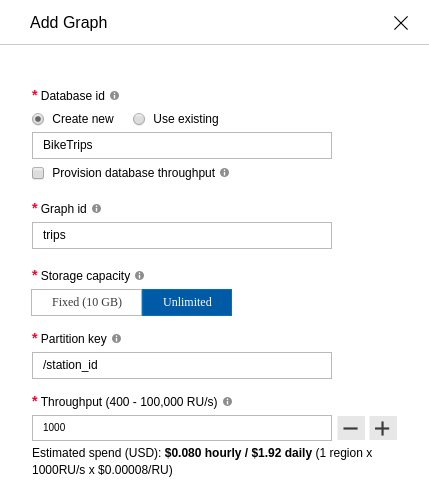
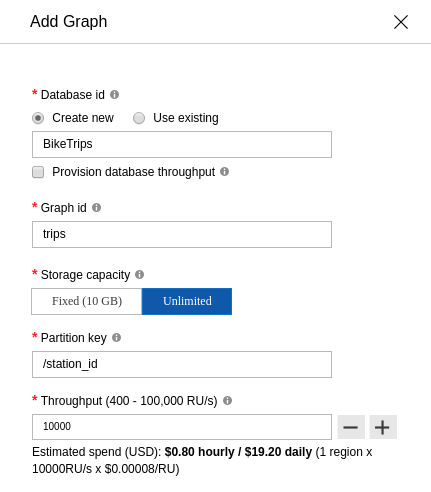
Updated notebook and architecture diagram

diff --git a/azure/cosmosdb/graph/README.md b/azure/cosmosdb/graph/README.md
@@ -2,7 +2,7 @@
 
 This guide will help you spin up an environment to test graph processing capabilities of Azure Databricks (a fast, easy, and collaborative Apache Spark–based analytics service) and Azure Cosmos DB.
 
-Azure Cosmos DB is the globally distributed, multimodel database service from Microsoft for mission-critical applications. It is a multimodel database and supports document, key-value, graph, and columnar data models. The Azure Cosmos DB Gremlin API is used to store and operate on graph data. Gremlin API supports modeling Graph data and provides APIs to traverse through the graph data.
+Azure Cosmos DB is the globally distributed, multimodel database service from Microsoft for mission-critical applications. It is a multimodel database and supports document, key-value, graph, and columnar data models. The Azure Cosmos DB Gremlin API is used to store and operate on graph data. Gremlin API supports modeling graph data and provides APIs to traverse through the graph data.
 
 The environment is created by using Terraform, and a notebook is provided to showcase a sample Spark application that reads and writes graphs to Azure Cosmos DB.
 
@@ -145,11 +145,11 @@ $ terraform output key_vault_id
 
 6. In the **Add Graph** blade, configure the following:
 
-   - **Database id**: Select **Create new**, then provide an ID for the database (such as `BikeTrips`), that we will refer to as `<DATABASE_ID>` in the Azure Databricks notebook we will setup.
+   - **Database id**: Select **Create new**, then enter `BikeTrips`.
    - **Provision database throughput**: Unchecked.
    - **Graph id**: Enter "trips".
    - **Partition key**: Enter "/station_id".
-   - **Throughput**: Enter 1000.
+   - **Throughput**: Enter 10000.
 
    ![The Add Graph blade is displayed, with the previously mentioned settings entered into the appropriate fields.](media/cosmos-db-add-graph-blade.png 'Add Graph blade')
 
@@ -239,6 +239,31 @@ You have to install the [Azure Cosmos DB Spark Connector](https://github.com/Azu
 
    ![The Install automatically on all clusters box is checked and highlighted on the library dialog.](media/databricks-install-library-on-all-clusters.png 'Install library on all clusters')
 
+## Install the GraphFrames library
+
+You have to install the [GraphFrames library](https://github.com/graphframes/graphframes) on your Databricks cluster: it allows you to write highly expressive graph queries by leveraging the DataFrame API, combined with a new API for motif finding.
+
+1. Navigate to your Azure Databricks workspace in the [Azure portal](https://portal.azure.com/), and select **Launch Workspace** from the overview blade, signing into the workspace with your Azure credentials, if required.
+
+2. Select **Workspace** from the left-hand menu, then select the drop down arrow next to **Shared** and select **Create** and **Library** from the context menus.
+
+   ![The Workspace items is selected in the left-hand menu, and the shared workspace is highlighted. In the Shared workspace context menu, Create and Library are selected.](media/databricks-create-shared-library.png 'Create Shared Library')
+
+3. On the Create Library page, select **Spark** under Library Source, and then select **Search Packages** next to the Coordinates text box.
+
+   ![The Databricks Create Library dialog is displayed, with Maven selected under Library Source and the Search Packages link highlighted.](media/databricks-create-maven-library.png 'Create Library')
+
+4. On the Search Packages dialog, select **Spark Packages** from the source drop down, enter **graphframes** into the search box, and click **Select** next to Artifact Id `0.7.0-spark2.4`.
+
+   ![The Search Packages dialog is displayed, with Spark specified as the source and graphframes entered into the search box. The most recent version of GraphFrames is highlighted.](media/databricks-spark-search-packages.png)
+
+5. Select **Create** to finish installing the library.
+
+6. On the following screen, check the box for **Install automatically on all clusters**, and select **Confirm** when prompted.
+
+   ![The Install automatically on all clusters box is checked and highlighted on the library dialog.](media/databricks-install-library-on-all-clusters.png 'Install library on all clusters')
+
+
 ## Open Azure Databricks and load lab notebooks
 
 Follow the instructions below to download the notebook contained in this repository and upload it to your Azure Databricks workspace.
@@ -260,6 +285,8 @@ Follow the instructions below to download the notebook contained in this reposit
 6. You should now see a notebook named **CosmosDB-Graph-Sample-Application** in your user workspace.
 
 7. In the **CosmosDB-Graph-Sample-Application** notebook, follow the instructions to execute the Spark application.
+
+   > **Note**: It will take 5-7 minutes to persist the graph in Azure Cosmos DB (last step of the notebook).
 
 ## Explore the data in Cosmos DB
 
